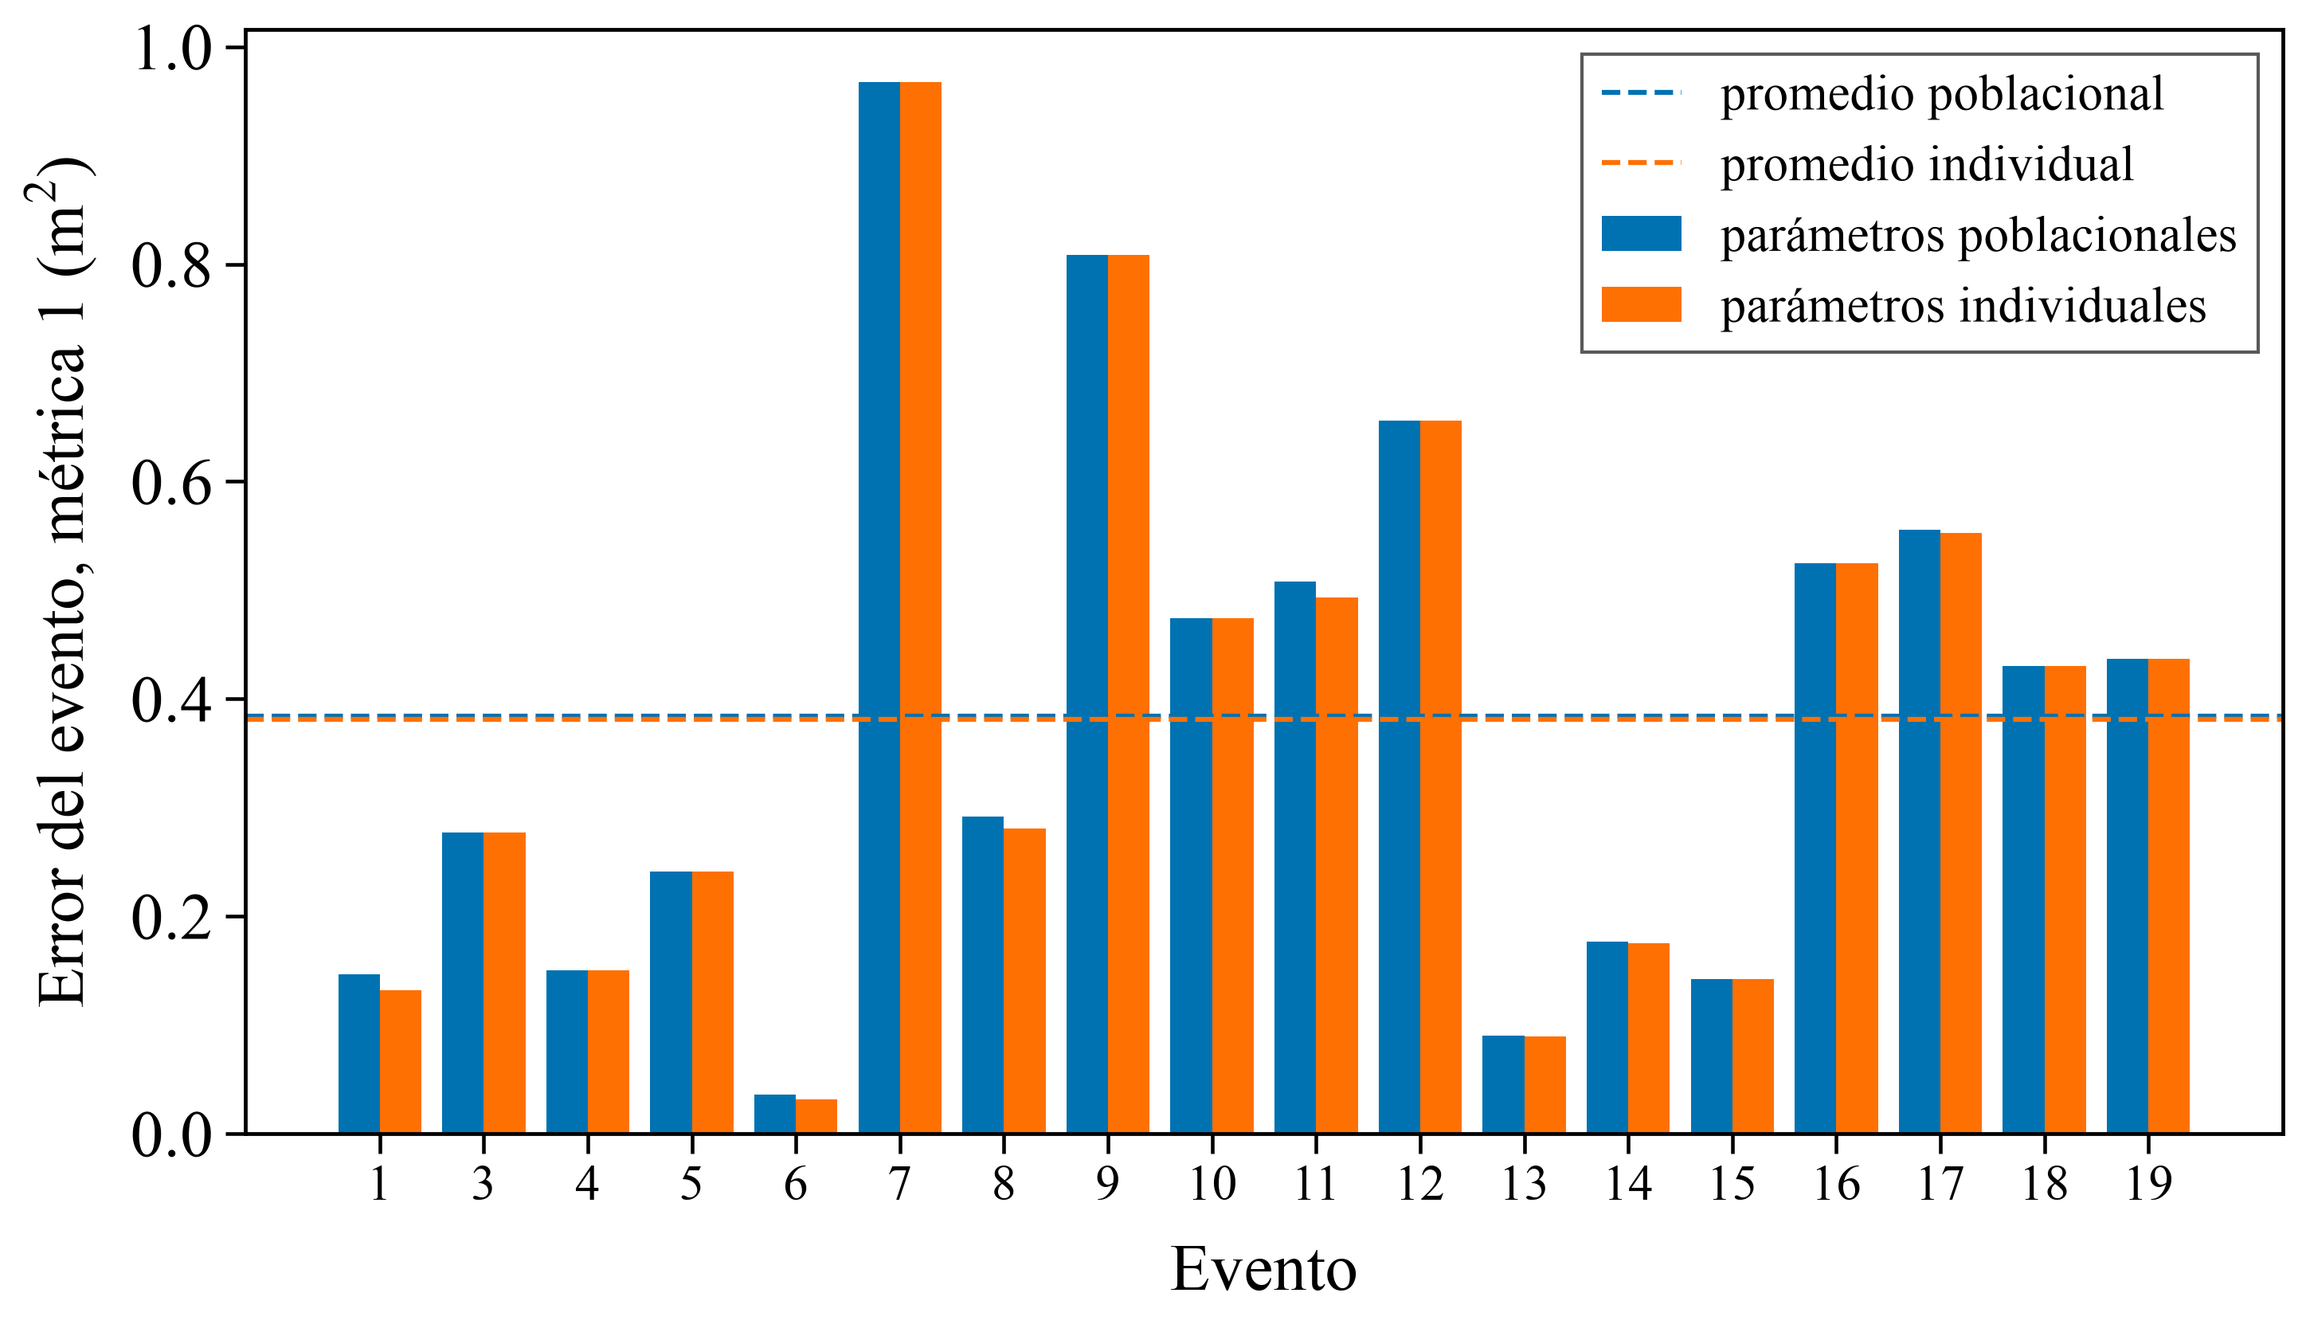
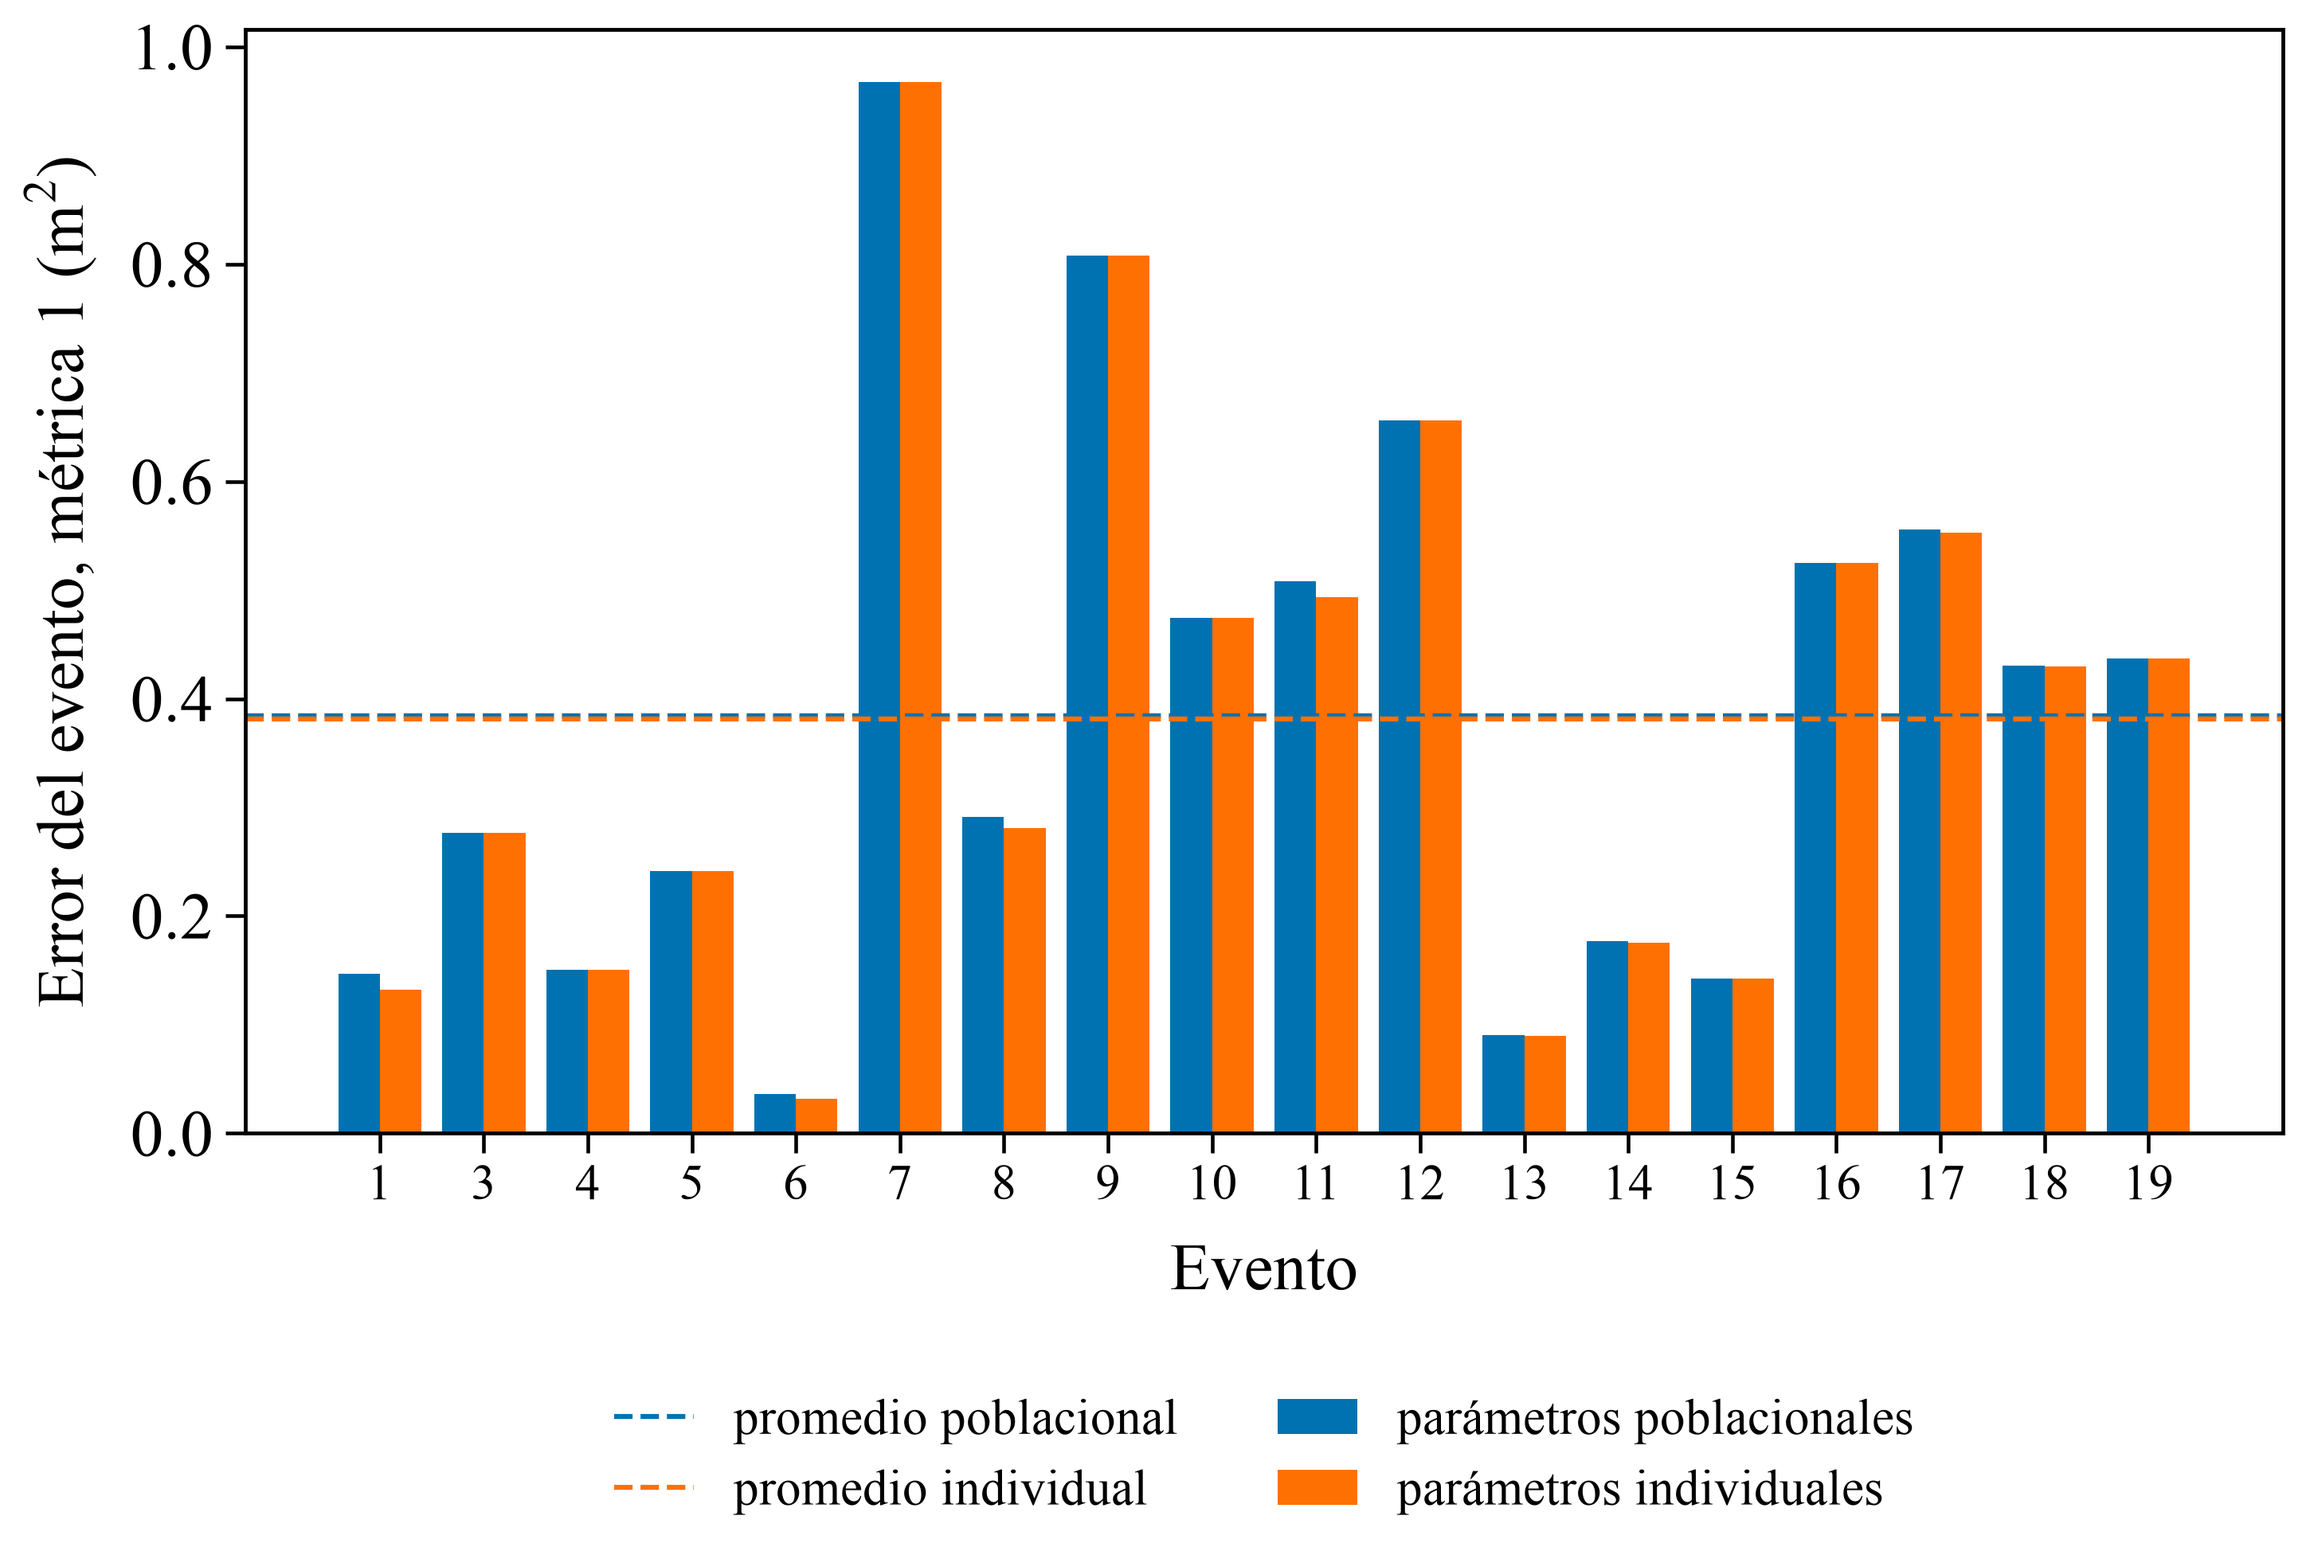
point b results

diff --git a/docs/presentation/secciones/resultados.tex b/docs/presentation/secciones/resultados.tex
@@ -169,20 +169,36 @@
   \framesubtitle{Calibración individual: error de cada evento}
   \begin{columns}[T]
     \begin{column}{0.49\textwidth}
-      \centering
-      \includegraphics[width=\linewidth,height=0.58\textheight,keepaspectratio]{E1_error_por_evento.png}
+      \centering{\small Métrica 1}\par
+      \includegraphics[width=\linewidth,height=0.70\textheight,keepaspectratio]{E1_error_por_evento.png}
     \end{column}
     \begin{column}{0.49\textwidth}
-      \centering
-      \includegraphics[width=\linewidth,height=0.58\textheight,keepaspectratio]{E2_error_por_evento.png}
+      \centering{\small Métrica 2}\par
+      \includegraphics[width=\linewidth,height=0.70\textheight,keepaspectratio]{E2_error_por_evento.png}
     \end{column}
   \end{columns}
-  \vspace{4pt}
+\end{frame}
+
+\begin{frame}{Resultados}
+  \framesubtitle{Calibración individual: ganancia al individualizar}
+  \centering
+  \renewcommand{\arraystretch}{1.5}
+  \begin{tabular}{lccc}
+    \hline
+    Métrica & $\langle E\rangle$ poblacional (m$^2$) & $\langle E\rangle$ individual (m$^2$) & Ganancia \\
+    \hline
+    1: iguales tiempos & $0.384$ & $0.381$ & $0.7$\,\% \\
+    2: punto más cercano & $2.05\ten{-2}$ & $1.69\ten{-2}$ & $18$\,\% \\
+    \hline
+  \end{tabular}
+
+  \vspace{16pt}
   \begin{columns}
-    \begin{column}{0.70\textwidth}
-      \begin{resultado}[Ganancia al individualizar]
-        \item Métrica 1: $0.7$\,\%, \ $\sqrt{\langle E\rangle}$: $62.0 \to 61.8\uni{cm}$, \ 10 de 18 eventos en el óptimo poblacional
-        \item Métrica 2: $18$\,\%, \ $\sqrt{\langle E\rangle}$: $14.3 \to 13.0\uni{cm}$, \ 0 de 18
+    \begin{column}{0.62\textwidth}
+      \begin{resultado}
+        \item Ganancia $= \big(\langle E\rangle_{\mathrm{pob}} - \langle E\rangle_{\mathrm{ind}}\big) / \langle E\rangle_{\mathrm{pob}}$
+        \item $\sqrt{\langle E\rangle}$, métrica 1: $0.620 \to 0.618\uni{m}$
+        \item $\sqrt{\langle E\rangle}$, métrica 2: $0.143 \to 0.130\uni{m}$
       \end{resultado}
     \end{column}
   \end{columns}

diff --git a/scripts/plot_calibration.py b/scripts/plot_calibration.py
@@ -165,7 +165,7 @@ def plot_individual(metric: int, indir: Path, outdir: Path) -> None:
     ax.set_xticks(x)
     ax.set_xticklabels([str(p) for p in pruebas], fontsize=15)
     style_axes(ax, "Evento", elabel(metric, mean=False))
-    ax.legend(fontsize=15)
+    ax.legend(loc="upper center", bbox_to_anchor=(0.5, -0.2), ncol=2, fontsize=15, frameon=False)
     save(fig, outdir / f"E{metric}_error_por_evento.png")
 
 
